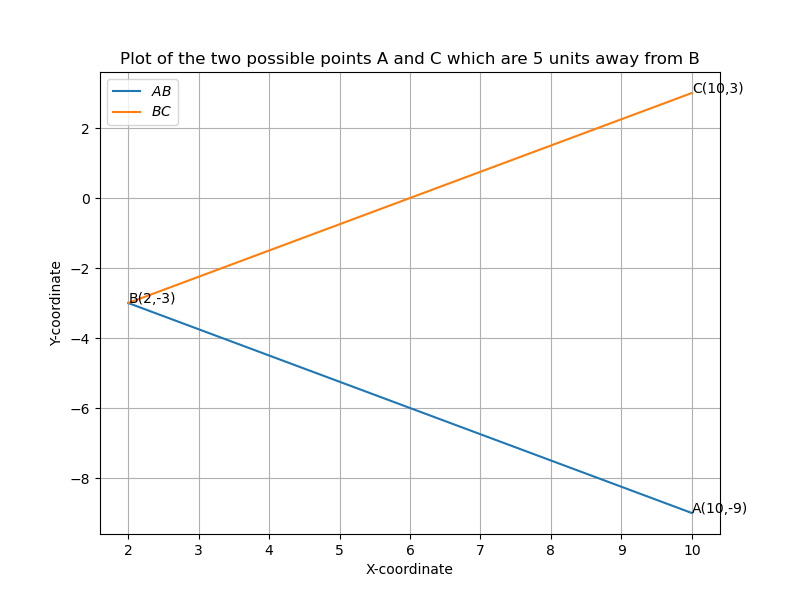
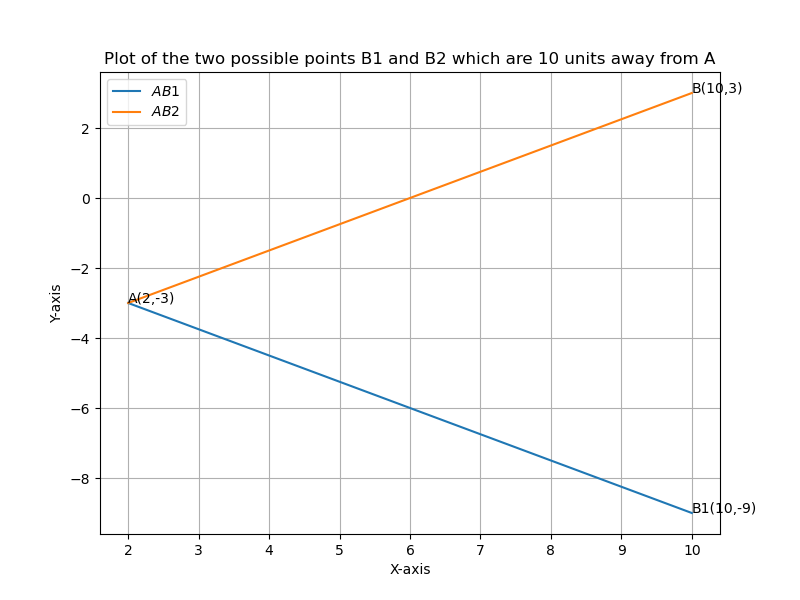
revised

diff --git a/Assignment3/codes/plot.py b/Assignment3/codes/plot.py
@@ -8,25 +8,25 @@ import matplotlib.image as mpimg
 from funcs import line_gen
 import params
 
-A = np.array(([10 , -9]))
-B = np.array(([2, -3]))
-C = np.array(([10, 3]))
+B1 = np.array(([10 , -9]))
+A = np.array(([2, -3]))
+B2 = np.array(([10, 3]))
 
-x_AB = line_gen(A,B)
-x_BC = line_gen(B,C)
+x_AB1 = line_gen(A,B1)
+x_AB2 = line_gen(A,B2)
 
 plt.figure(figsize=(8, 6))
 
-plt.plot(x_AB[0,:],x_AB[1,:],label='$AB$')
-plt.plot(x_BC[0,:],x_BC[1,:],label='$BC$')
+plt.plot(x_AB1[0,:],x_AB1[1,:],label='$AB1$')
+plt.plot(x_AB2[0,:],x_AB2[1,:],label='$AB2$')
 
 
-plt.text(A[0], A[1], 'A(10,-9)')
-plt.text(B[0], B[1], 'B(2,-3)')
-plt.text(C[0], C[1], 'C(10,3)')
-plt.xlabel('X-coordinate')
-plt.ylabel('Y-coordinate')
-plt.title('Plot of the two possible points A and C which are 5 units away from B')
+plt.text(B1[0], B1[1], 'B1(10,-9)')
+plt.text(A[0], A[1], 'A(2,-3)')
+plt.text(B2[0], B2[1], 'B(10,3)')
+plt.xlabel('X-axis')
+plt.ylabel('Y-axis')
+plt.title('Plot of the two possible points B1 and B2 which are 10 units away from A')
 plt.legend()
 plt.grid(True)
 

diff --git a/Assignment3/main.tex b/Assignment3/main.tex
@@ -62,13 +62,13 @@
          \begin{align}
          	\vec{D}	&= \myvec{8\\y+3} \\
 		\norm{\vec{D}}^2 &= \vec{D}\vec{D}^\top \\
-		\implies \norm{\vec{D}}^2 &= \myvec{8\\y+3}\myvec{8 & y+3} \\
-		\implies \norm{\vec{D}}^2 &= 8^{2} + \brak{y+3}^{2} \\
+		\norm{\vec{D}}^2 &= \myvec{8\\y+3}\myvec{8 & y+3} \\
+		\norm{\vec{D}}^2 &= 8^{2} + \brak{y+3}^{2} \\
 	\end{align}
 	It has been given that the distance between the points is $10$ units, so \\
 	\begin{align}
 	\norm{\vec{D}}^2 &= 100 	 \\
-        \implies 100 &= 73 + y^{2} + 6y \\
+       	100 &= 73 + y^{2} + 6y \\
  	\therefore y &= 3,-9 \\
 	\end{align}
 	\begin{figure}[h]
